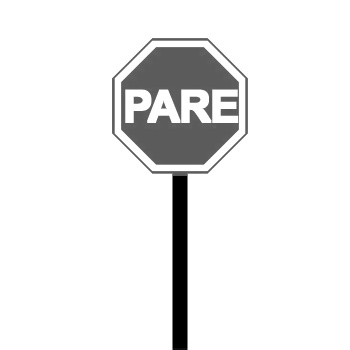
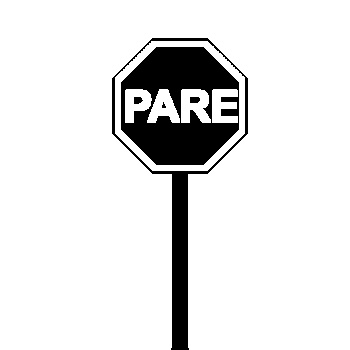
erode and dilate implementation

Changed region(s): [[0.3143, 0.0857, 0.7143, 0.5143], [0.4857, 0.9714, 0.5429, 1.0]]

diff --git a/morphology/dilate.py b/morphology/dilate.py
@@ -1,0 +1,29 @@
+import cv2
+import numpy as np
+  
+img = cv2.imread('plate.jpg', 0)
+bin_img = cv2.threshold(img, 0, 255, cv2.THRESH_BINARY+cv2.THRESH_OTSU)[1]
+
+kernel = np.array([[255,255,255],[255,255,255],[255,255,255]], np.uint8)
+
+cv2.imwrite('bin-plate.jpg', bin_img)
+
+def dilate(img, kernel):
+    dilate_img = img.copy()
+    row, column = img.shape
+    for i in range(1, row - 2):
+        for j in range(1, column - 2):
+            value = np.uint8(0)
+            compare = False
+            for k in range(-1, 2):
+                for l in range(-1, 2):
+                    if img[i+k, j+l] == kernel[k+1,l+1]:
+                        compare = True
+                if compare:
+                    value = np.uint8(255)
+                    break
+            dilate_img[i,j] = value
+    return dilate_img
+
+dilate_img = dilate(bin_img, kernel)
+cv2.imwrite('dilated-plate.jpg', dilate_img)

diff --git a/morphology/erode.py b/morphology/erode.py
@@ -1,0 +1,29 @@
+import cv2
+import numpy as np
+  
+img = cv2.imread('plate.jpg', 0)
+bin_img = cv2.threshold(img, 0, 255, cv2.THRESH_BINARY+cv2.THRESH_OTSU)[1]
+
+kernel = np.array([[255,255,255],[255,255,255],[255,255,255]], np.uint8)
+
+cv2.imwrite('bin-plate.jpg', bin_img)
+
+def erode(img, kernel):
+    erode_img = img.copy()
+    row, column = img.shape
+    for i in range(1, row - 2):
+        for j in range(1, column - 2):
+            value = np.uint8(255)
+            compare = False
+            for k in range(-1, 2):
+                for l in range(-1, 2):
+                    if img[i+k, j+l] != kernel[k+1,l+1]:
+                        compare = True
+                if compare:
+                    value = np.uint8(0)
+                    break
+            erode_img[i,j] = value
+    return erode_img
+
+erode_img = erode(bin_img, kernel)
+cv2.imwrite('eroded-plate.jpg', erode_img)
